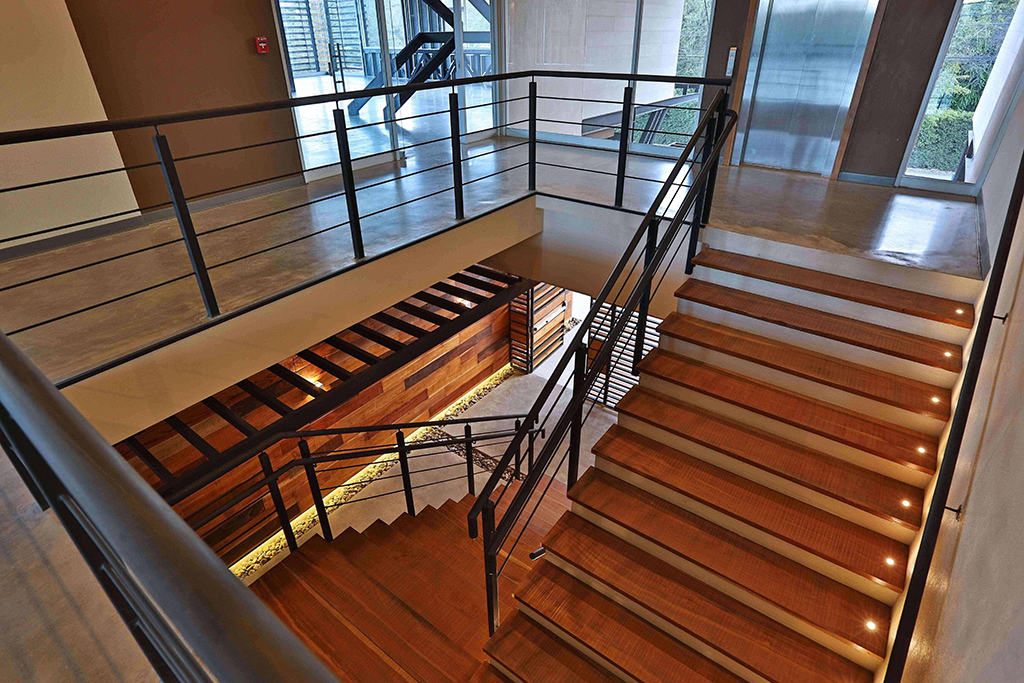
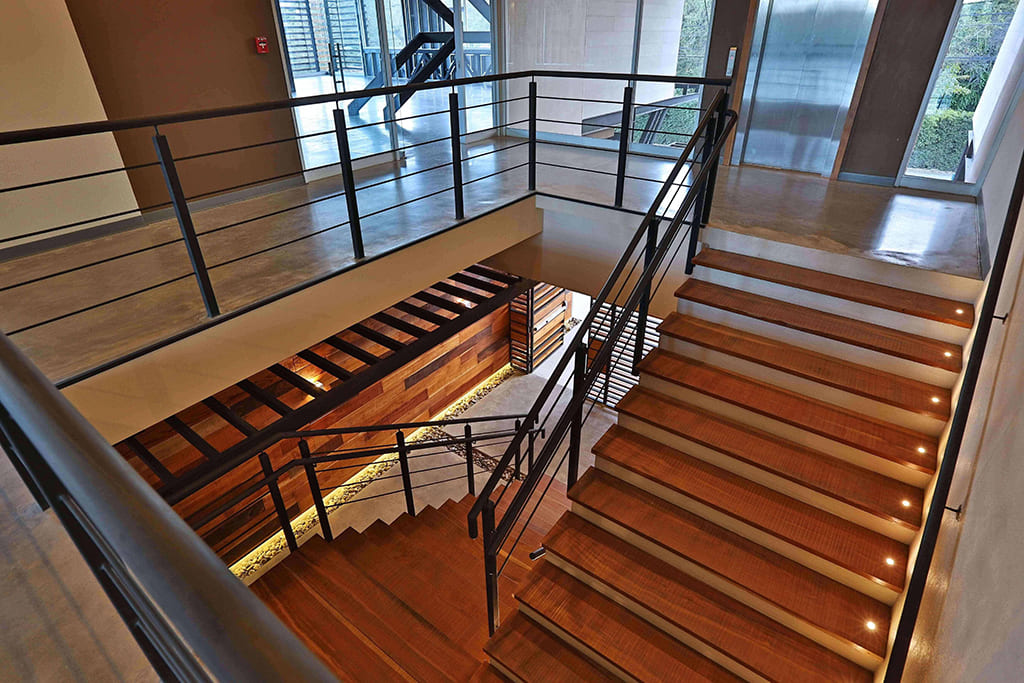
nueva compresion de fotos

Changed region(s): [[0.5625, 0.4612, 0.5938, 0.4919], [0.4062, 0.6149, 0.4375, 0.6457], [0.2812, 0.7379, 0.3125, 0.7687]]

diff --git a/pages/contacto.html b/pages/contacto.html
@@ -67,7 +67,7 @@
         <p>Correo electronico: admin@costaplan.com</p>
         <p class="titulo5">Ingrese sus datos</p>
         
-        <form method="POST" action="https://www.paginaderecepcion.com">
+        <form method="POST" action="https://plazakoros.000webhostapp.com/pages/contacto.html ">
             <div class="form-floating mb-1 my-2">
                 <input type="text" class="form-control" id="floatingInput" placeholder="">
                 <label for="floatingInput">Nombre y apellido</label>
